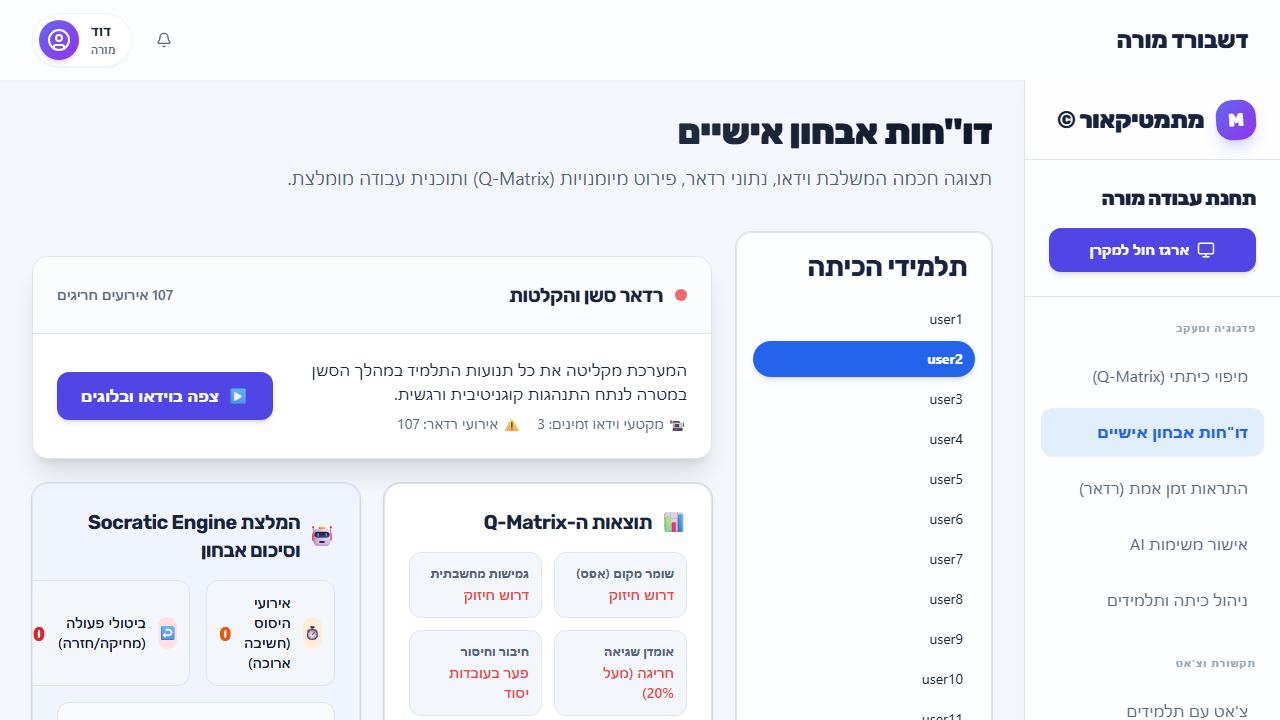
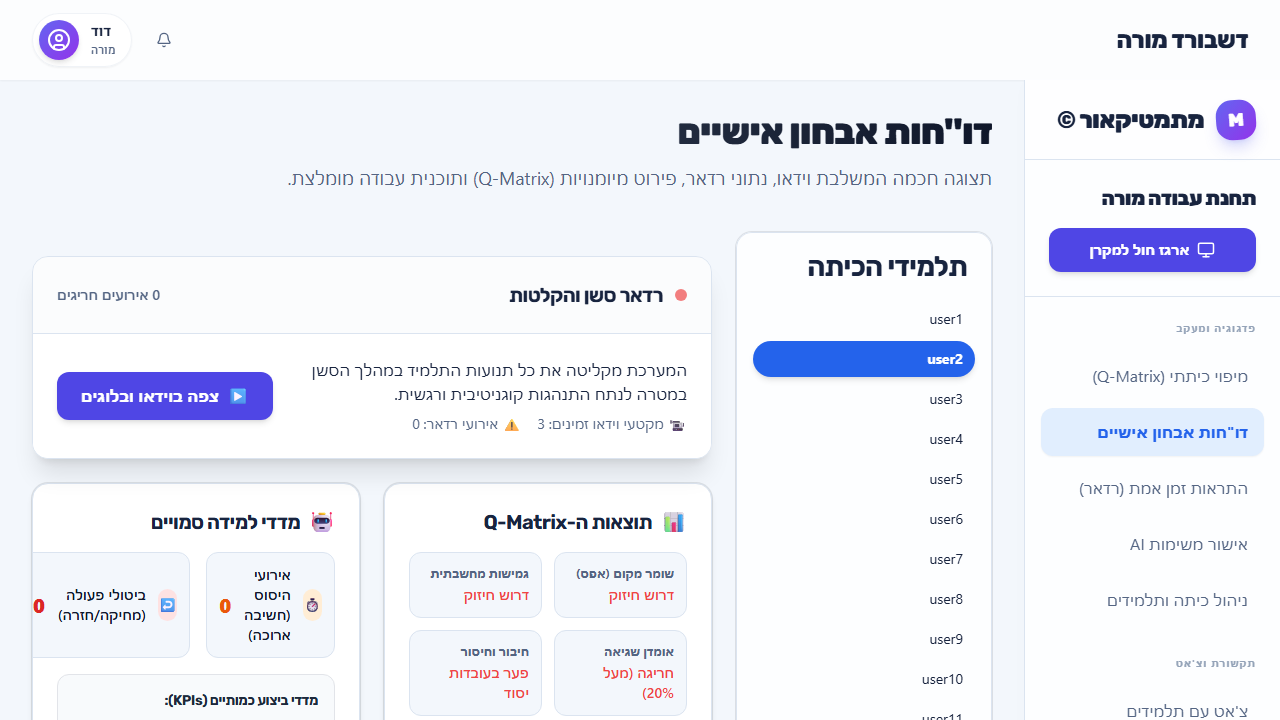
fix: critical bug fixes + CI/CD Gemini key injection via GitHub Secrets

Changed region(s): [[0.0312, 0.7028, 0.2812, 0.9778], [0.3125, 0.5806, 0.3438, 0.6111]]

diff --git a/react-ts-version/src/infrastructure/services/AuditLogger.ts b/react-ts-version/src/infrastructure/services/AuditLogger.ts
@@ -14,13 +14,19 @@ export interface AuditLogEvent {
 
 class AuditLoggerService {
   /**
-   * Log an event to the `audit_logs` Firebase node.
+   * Log an event to the `audit_logs` Firebase node, AND to the student's personal `radar_history`
+   * so it appears on the teacher dashboard synced with the video replay.
    */
   async log(action: AuditAction, userId: string, details?: string) {
-    try {
-      // All authenticated roles can write to audit_logs.
-      // (Previous admin-only guard silently dropped all teacher/student events.)
+    if (!userId) {
+      console.warn("AuditLogger.log called without userId", { action, details });
+      return;
+    }
 
+    try {
+      const timestamp = Date.now();
+      
+      // Global audit log
       const logsRef = ref(database, 'audit_logs');
       await push(logsRef, {
         action,
@@ -28,8 +34,35 @@ class AuditLoggerService {
         details: details || null,
         timestamp: serverTimestamp(),
       });
+
+      // Student personal radar history (for Teacher Dashboard timeline)
+      // Map actions to radar types: 'TASK_ERROR', 'PASSIVE_DRIFTING', 'HESITATION', etc.
+      let type = action;
+      let errorCategory = null;
+      if (['FACTUAL_ERROR', 'PROCEDURAL_ERROR', 'STRATEGIC_ERROR'].includes(action)) {
+        type = 'TASK_ERROR';
+        errorCategory = action;
+      }
+
+      const radarRef = ref(database, `users/students/${userId}/radar_history`);
+      await push(radarRef, {
+        type,
+        errorCategory,
+        timestamp, // use client timestamp to match rrweb video timeline
+        details: details || null,
+      });
+
+      // Global radar alerts for the live Teacher Dashboard sidebar
+      const alertsRef = ref(database, 'radar_alerts');
+      await push(alertsRef, {
+        type,
+        studentId: userId,
+        timestamp,
+        details: details || null,
+      });
+
     } catch (e) {
-      console.error("Failed to write audit log:", e);
+      console.error("Failed to write audit log or radar history:", e);
     }
   }
 }

diff --git a/react-ts-version/src/application/useCognitiveHesitationRadar.ts b/react-ts-version/src/application/useCognitiveHesitationRadar.ts
@@ -20,6 +20,9 @@ export function useCognitiveHesitationRadar({
   onHesitationDetected 
 }: UseCognitiveHesitationRadarProps) {
   const timeoutRef = useRef<ReturnType<typeof setTimeout> | null>(null);
+  // Store callback in a ref so changes to it don't reset the timer
+  const onHesitationRef = useRef(onHesitationDetected);
+  useEffect(() => { onHesitationRef.current = onHesitationDetected; }, [onHesitationDetected]);
 
   const resetTimeout = useCallback(() => {
     if (timeoutRef.current) {
@@ -31,22 +34,20 @@ export function useCognitiveHesitationRadar({
     timeoutRef.current = setTimeout(() => {
       // Trigger silent dashboard alert payload
       const { user } = useAuthStore.getState();
-      const userId = user?.uid || user?.id || "unknown_student";
+      const userId = user?.uid || user?.id;
       
+      if (!userId) return;
+
       AuditLogger.log(
-        "COGNITIVE_HESITATION_ALERT", 
+        "HESITATION", 
         userId as string, 
         "Student hesitated for >30s without interacting. Silent alert triggered."
       );
       
-      // Deliberately NOT calling onHesitationDetected() by default 
-      // to ensure NO visual indication is shown to the student, 
-      // but we leave the optional callback in case it's needed for state logging later.
-      if (onHesitationDetected && false) {
-        onHesitationDetected?.();
-      }
+      // onHesitationDetected is intentionally NOT called here — no visual shown to student.
+      // The ref is kept for possible future state-logging use.
     }, HESITATION_THRESHOLD_MS);
-  }, [isActive, onHesitationDetected]);
+  }, [isActive]); // ← onHesitationDetected intentionally removed from deps
 
   useEffect(() => {
     if (!isActive) {

diff --git a/react-ts-version/src/features/workspace/StudentWorkspacePage.tsx b/react-ts-version/src/features/workspace/StudentWorkspacePage.tsx
@@ -128,8 +128,25 @@ export function StudentWorkspacePage() {
         useWorkspaceStore.getState().undo();
       }
     };
+    
+    const onVisibilityChange = () => {
+      if (document.hidden) {
+        const studentId = useAuthStore.getState().user?.uid;
+        if (studentId) {
+          import('@/infrastructure/services/AuditLogger').then(({ AuditLogger }) => {
+            AuditLogger.log('TAB_ESCAPE', studentId, 'Student switched to another tab or window');
+          });
+        }
+      }
+    };
+
     window.addEventListener('keydown', onKeyDown);
-    return () => window.removeEventListener('keydown', onKeyDown);
+    document.addEventListener('visibilitychange', onVisibilityChange);
+    
+    return () => {
+      window.removeEventListener('keydown', onKeyDown);
+      document.removeEventListener('visibilitychange', onVisibilityChange);
+    };
   }, []);
 
   // RRWeb recording with batching

diff --git a/react-ts-version/src/application/useWorkspaceStore.ts b/react-ts-version/src/application/useWorkspaceStore.ts
@@ -268,8 +268,10 @@ export const useWorkspaceStore = create<WorkspaceState>((set, get) => {
     const nonce = get().feedbackNonce + 1;
     set({ feedback, feedbackNonce: nonce });
     window.setTimeout(() => {
-      if (get().feedbackNonce === nonce) set({ feedback: null });
-      then?.();
+      if (get().feedbackNonce === nonce) {
+        set({ feedback: null });
+        then?.();
+      }
     }, ms);
   }
 
@@ -952,6 +954,12 @@ export const useWorkspaceStore = create<WorkspaceState>((set, get) => {
       
       if (newConsecutiveUndos >= 3) {
         set({ isBoardLocked: true, consecutiveUndos: newConsecutiveUndos });
+        
+        const studentId = useAuthStore.getState().user?.uid;
+        if (studentId) {
+          AuditLogger.log('PASSIVE_DRIFTING', studentId, '3 consecutive undos detected');
+        }
+
         s.showFeedback({ 
           correct: false, 
           title: 'בואו נעצור לרגע...', 
@@ -1186,6 +1194,12 @@ export const useWorkspaceStore = create<WorkspaceState>((set, get) => {
       const s = get();
       if (s.helpState !== 'closed') return;
       if (Date.now() - s.taskStartTime < 10000) return; // 10s delay before help is available
+      
+      const studentId = useAuthStore.getState().user?.uid;
+      if (studentId) {
+        AuditLogger.log('HINT_REQUESTED', studentId, 'Student clicked the hint lightbulb');
+      }
+
       set({ helpState: 'friction', frictionTriggerSource: 'lightbulb', aiSocraticHint: null });
       get().fetchSocraticHint();
     },

diff --git a/react-ts-version/src/core/qmatrixFlow.ts b/react-ts-version/src/core/qmatrixFlow.ts
@@ -197,7 +197,7 @@ export function determineAdaptivePath(
   hesitationCount: number = 0,
   undoCount: number = 0
 ): RoutePath {
-  const failedTasks = Object.values(state.results).filter(r => !r.correct);
+  const failedTasks = Object.values(state.results).filter(r => !r.correct && !r.secondAttemptCorrect);
   const failedCount = failedTasks.length;
 
   if (failedCount >= 3 || hesitationCount >= 10 || undoCount >= 20) {

diff --git a/react-ts-version/src/presentation/pages/TeacherDashboard/components/StudentReplayAndLogs.tsx b/react-ts-version/src/presentation/pages/TeacherDashboard/components/StudentReplayAndLogs.tsx
@@ -198,7 +198,7 @@ export function StudentReplayAndLogs({ studentId }: { studentId: string }) {
                             chunkMetadata[k] && 
                             alert.timestamp >= chunkMetadata[k].startTime && 
                             alert.timestamp <= chunkMetadata[k].endTime
-                          ) || chunkKeys.reverse().find(k => chunkMetadata[k] && alert.timestamp >= chunkMetadata[k].endTime) || chunkKeys[0];
+                          ) || [...chunkKeys].reverse().find(k => chunkMetadata[k] && alert.timestamp >= chunkMetadata[k].endTime) || chunkKeys[0];
                           
                           fetchChunk(latestSession, targetKey);
                         }